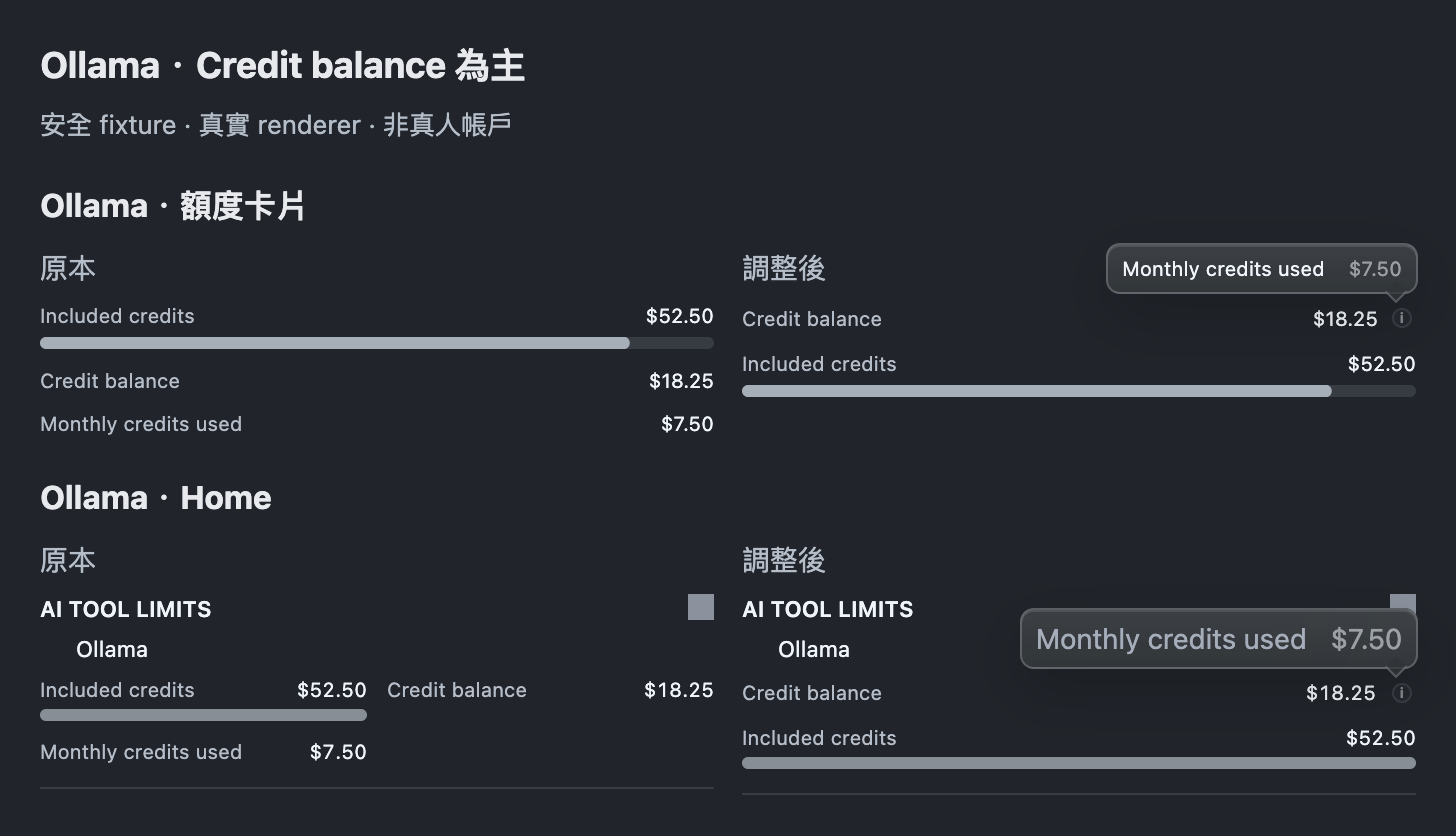
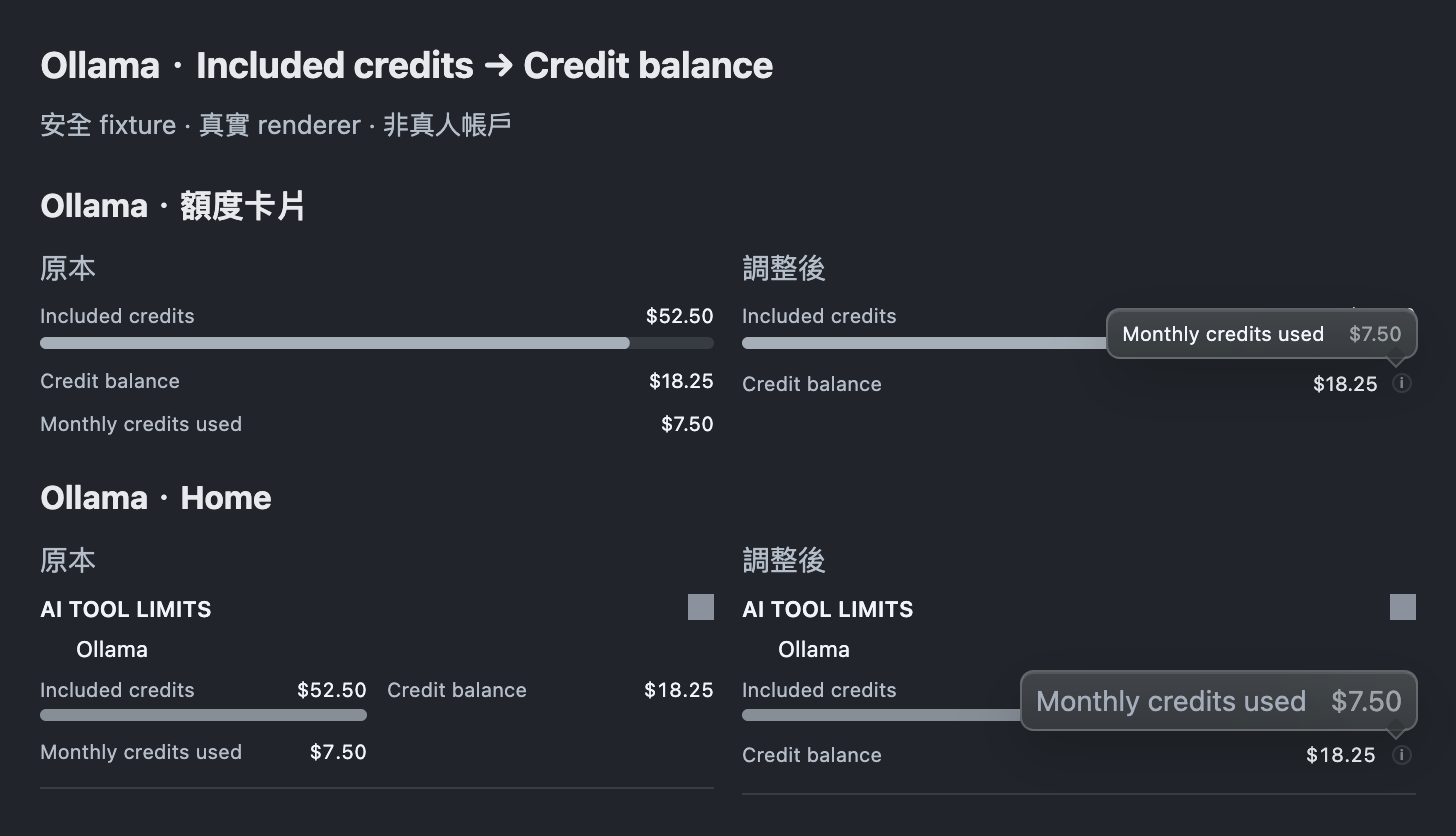
fix(ollama): show included credits before credit balance

Changed region(s): [[0.4945, 0.7153, 0.989, 0.933], [0.4945, 0.2799, 0.989, 0.4976], [0.1236, 0.0622, 0.5254, 0.0933]]

diff --git a/tests/electron/edgeDockLimitCard.test.js b/tests/electron/edgeDockLimitCard.test.js
@@ -730,7 +730,7 @@ test('an Ollama API card keeps purchased balance separate from included monthly 
   assert.equal(card.textOf('limit-meter').length, 1);
   for (const amount of ['$52.50', '$18.25', '$7.50']) assert.ok(card.text.includes(amount), card.text);
   assert.equal(card.text.includes('$70.75'), false, 'wallet and allowance must not be added');
-  assert.deepEqual([...card.walk()].filter((node) => node.classNames.has('limit-window-text')).map((node) => node.children[0].textContent), ['Credit balance', 'Included credits']);
+  assert.deepEqual([...card.walk()].filter((node) => node.classNames.has('limit-window-text')).map((node) => node.children[0].textContent), ['Included credits', 'Credit balance']);
   assert.match(card.find('limit-spend-summary').textContent, /\$18\.25/);
   const tooltip = card.find('limit-detail-tooltip');
   assert.equal(tooltip.text, 'Monthly credits used $7.50');
@@ -770,7 +770,7 @@ test('Ollama hides spending details when that usage item is disabled and keeps s
   assert.doesNotMatch(spendOnly.text, /Credit balance/);
 });
 
-test('Home renders Ollama balance and included quota on separate full-width rows with the shared tooltip', () => {
+test('Home renders Ollama included quota before balance on separate full-width rows with the shared tooltip', () => {
   const { parseOllamaBalance } = require('../../src/shared/providers/ollama/limits');
   const { homeLimitAccounts } = require('../../src/electron/renderer/homeOverview');
   const parsed = parseOllamaBalance({ included: { balance_usd: 52.5, allowance_usd: 60 }, purchased: { balance_usd: 18.25 } });
@@ -794,13 +794,13 @@ test('Home renders Ollama balance and included quota on separate full-width rows
   const readings = [...context.result.walk()].filter((node) => node.classNames.has('home-limit-window'));
   assert.equal(readings.length, 2);
   assert.ok(readings.every((node) => node.classNames.has('home-limit-window-wide')));
-  assert.equal(readings[0].find('home-limit-window-label').textContent, 'Credit balance');
-  assert.equal(readings[0].find('home-list-value').textContent, '$18.25');
-  assert.equal(readings[0].find('limit-meter'), null);
-  assert.equal(readings[0].find('limit-detail-tooltip').text, 'Monthly credits used $7.50');
-  assert.equal(readings[0].find('limit-detail-tooltip-trigger').tabIndex, 0);
-  assert.equal(readings[1].find('home-list-value').textContent, '$52.50');
-  assert.ok(readings[1].find('limit-meter'));
+  assert.equal(readings[1].find('home-limit-window-label').textContent, 'Credit balance');
+  assert.equal(readings[1].find('home-list-value').textContent, '$18.25');
+  assert.equal(readings[1].find('limit-meter'), null);
+  assert.equal(readings[1].find('limit-detail-tooltip').text, 'Monthly credits used $7.50');
+  assert.equal(readings[1].find('limit-detail-tooltip-trigger').tabIndex, 0);
+  assert.equal(readings[0].find('home-list-value').textContent, '$52.50');
+  assert.ok(readings[0].find('limit-meter'));
 });
 
 test('a TypeSafe card omits expiry when the billing response has no valid grants', () => {

diff --git a/src/electron/renderer/limits/windowsView.js b/src/electron/renderer/limits/windowsView.js
@@ -1574,20 +1574,6 @@
       const visibleSpend = options.showAllUsageItems || !usageItems.isLimitWindowHidden(settings()?.limitProviderHiddenItems, 'ollama', spent)
         ? spent : null;
       let hasWallet = false;
-      for (const wallet of (provider.windows || []).filter((window) => isCreditsWindow(window) && window.showMeter === false)) {
-        if (!options.showAllUsageItems && usageItems.isLimitWindowHidden(settings()?.limitProviderHiddenItems, 'ollama', wallet)) continue;
-        const amount = creditsAmount(provider, wallet);
-        if (amount === null) continue;
-        const details = [];
-        if (visibleSpend && Number.isFinite(visibleSpend.used)) details.push([visibleSpend.label || 'Monthly credits used', formatMoney(visibleSpend.used, visibleSpend.currency)]);
-        if (wallet.resetDescription) details.push({ full: wallet.resetDescription });
-        const label = providerWindowLabel(provider, wallet, 'Credit balance');
-        const value = formatMoney(amount, creditsCurrency(provider, wallet));
-        const node = limitNoteRowNode({ label, summary: value, detailEntries: details.length ? details : null, ariaParts: [value] });
-        tagUsageItem(node, 'credits', label);
-        windows.append(node);
-        hasWallet = true;
-      }
       const session = windowForKind(provider, 'session');
       const weekly = windowForKind(provider, 'weekly');
       if (session) {
@@ -1616,6 +1602,20 @@
         node.classList.add('limit-window-wide');
         if (!creditsWindow.resetsAt && !creditsWindow.resetDescription) node.classList.add('limit-window-no-reset');
         windows.append(node);
+      }
+      for (const wallet of (provider.windows || []).filter((window) => isCreditsWindow(window) && window.showMeter === false)) {
+        if (!options.showAllUsageItems && usageItems.isLimitWindowHidden(settings()?.limitProviderHiddenItems, 'ollama', wallet)) continue;
+        const amount = creditsAmount(provider, wallet);
+        if (amount === null) continue;
+        const details = [];
+        if (visibleSpend && Number.isFinite(visibleSpend.used)) details.push([visibleSpend.label || 'Monthly credits used', formatMoney(visibleSpend.used, visibleSpend.currency)]);
+        if (wallet.resetDescription) details.push({ full: wallet.resetDescription });
+        const label = providerWindowLabel(provider, wallet, 'Credit balance');
+        const value = formatMoney(amount, creditsCurrency(provider, wallet));
+        const node = limitNoteRowNode({ label, summary: value, detailEntries: details.length ? details : null, ariaParts: [value] });
+        tagUsageItem(node, 'credits', label);
+        windows.append(node);
+        hasWallet = true;
       }
       if (!hasWallet && spent && Number.isFinite(spent.used)) {
         const node = limitWindowNode(spent.label || 'Monthly credits used', { ...spent, showMeter: false }, color, 0.68, formatMoney(spent.used, spent.currency));

diff --git a/tests/electron/homeOverview.test.js b/tests/electron/homeOverview.test.js
@@ -56,18 +56,18 @@ test('Home carries Ollama wallet and spending amounts without inferred quota per
   }
 });
 
-test('Home leads with Ollama balance, folds monthly spend into its tooltip, and keeps quota on a separate row', () => {
+test('Home keeps Ollama included quota before balance and folds monthly spend into the balance tooltip', () => {
   const { parseOllamaBalance } = require('../../src/shared/providers/ollama/limits');
   const parsed = parseOllamaBalance({ included: { balance_usd: 52.5, allowance_usd: 60 }, purchased: { balance_usd: 18.25 } });
   const [row] = homeLimitAccounts([{ providerId: 'ollama', windows: parsed.windows }]);
-  assert.deepEqual(row.windows.map((w) => w.label), ['Credit balance', 'Included credits']);
-  assert.deepEqual(row.windows[0].detailEntries, [['Monthly credits used', '$7.50']]);
-  assert.equal(row.windows[0].remainingPercent, null);
+  assert.deepEqual(row.windows.map((w) => w.label), ['Included credits', 'Credit balance']);
+  assert.deepEqual(row.windows[1].detailEntries, [['Monthly credits used', '$7.50']]);
+  assert.equal(row.windows[1].remainingPercent, null);
   assert.ok(row.windows.every((w) => w.fullWidth));
   assert.equal(homeLimitAccounts([{ providerId: 'thirdparty', windows: parsed.windows }])[0].windows.length, 2);
   const [hiddenSpend] = homeLimitAccounts([{ providerId: 'ollama', windows: parsed.windows }], 3, { isWindowHidden: (_, w) => w.metric === 'spend' });
   assert.equal(hiddenSpend.windows.length, 2);
-  assert.deepEqual(hiddenSpend.windows[0].detailEntries, []);
+  assert.deepEqual(hiddenSpend.windows[1].detailEntries, []);
 });
 
 test('Home activity heatmap is a scaled copy of the dashboard heatmap', () => {

diff --git a/src/electron/renderer/homeOverview.js b/src/electron/renderer/homeOverview.js
@@ -97,11 +97,11 @@
     const spend = windows.find((window) => window.metric === 'spend' && window.showMeter === false);
     if (!wallet) return windows.slice(0, 2).map((window) => ({ ...window, fullWidth: true }));
     return [
+      ...windows.filter((window) => window !== wallet && window !== spend).slice(0, 2),
       { ...wallet, resetDescription: '', detailEntries: [
         ...(spend?.value ? [[spend.label, spend.value]] : []),
         ...(wallet.resetDescription ? [{ full: wallet.resetDescription }] : [])
-      ] },
-      ...windows.filter((window) => window !== wallet && window !== spend).slice(0, 2)
+      ] }
     ].map((window) => ({ ...window, fullWidth: true }));
   }
 

diff --git a/docs/providers/ollama.md b/docs/providers/ollama.md
@@ -34,7 +34,7 @@ The Cookie path retains Session/Hourly/Weekly meters and also accepts **Monthly 
 
 The **Usage credits** wallet layout supplies **Credit balance**, **Monthly credits used**, and refill text. These remain independent measurements: monthly spending never substitutes for a missing balance, and a refill target is neither a quota denominator nor an exact reset date. Wallet amounts use meterless `credits`/`spend` windows and may coexist with genuine quota meters. Parse complete elements within the wallet section so adjacent sections cannot provide missing values.
 
-Credit balance leads the card and Home display. Monthly credits used appears in its existing-style info tooltip, alongside refill text on the card; included usage keeps its own separate quota row. Home uses full-width Ollama readings so a wallet amount never shares a grid row with a quota bar. If no wallet balance is reported, monthly spending remains a standalone reading. The wire retains the independent `credits`/`spend` measurements; this grouping is presentation only.
+Included credits precedes Credit balance on the card and Home display. Monthly credits used appears in its existing-style info tooltip, alongside refill text on the card; included usage keeps its own separate quota row. Home uses full-width Ollama readings so a wallet amount never shares a grid row with a quota bar. If no wallet balance is reported, monthly spending remains a standalone reading. The wire retains the independent `credits`/`spend` measurements; this grouping is presentation only.
 
 Cookie markup follows the sanitized shapes in CodexBar's [parser tests](https://github.com/steipete/CodexBar/blob/d34fbb47afe73f81dd591bae28a60f72c39a9fe4/Tests/CodexBarTests/OllamaUsageParserTests.swift) and [wallet tests](https://github.com/steipete/CodexBar/blob/d34fbb47afe73f81dd591bae28a60f72c39a9fe4/Tests/CodexBarTests/OllamaCreditWalletTests.swift). Local fixtures are bounded parser/transport/display evidence, not live-account acceptance.
 
